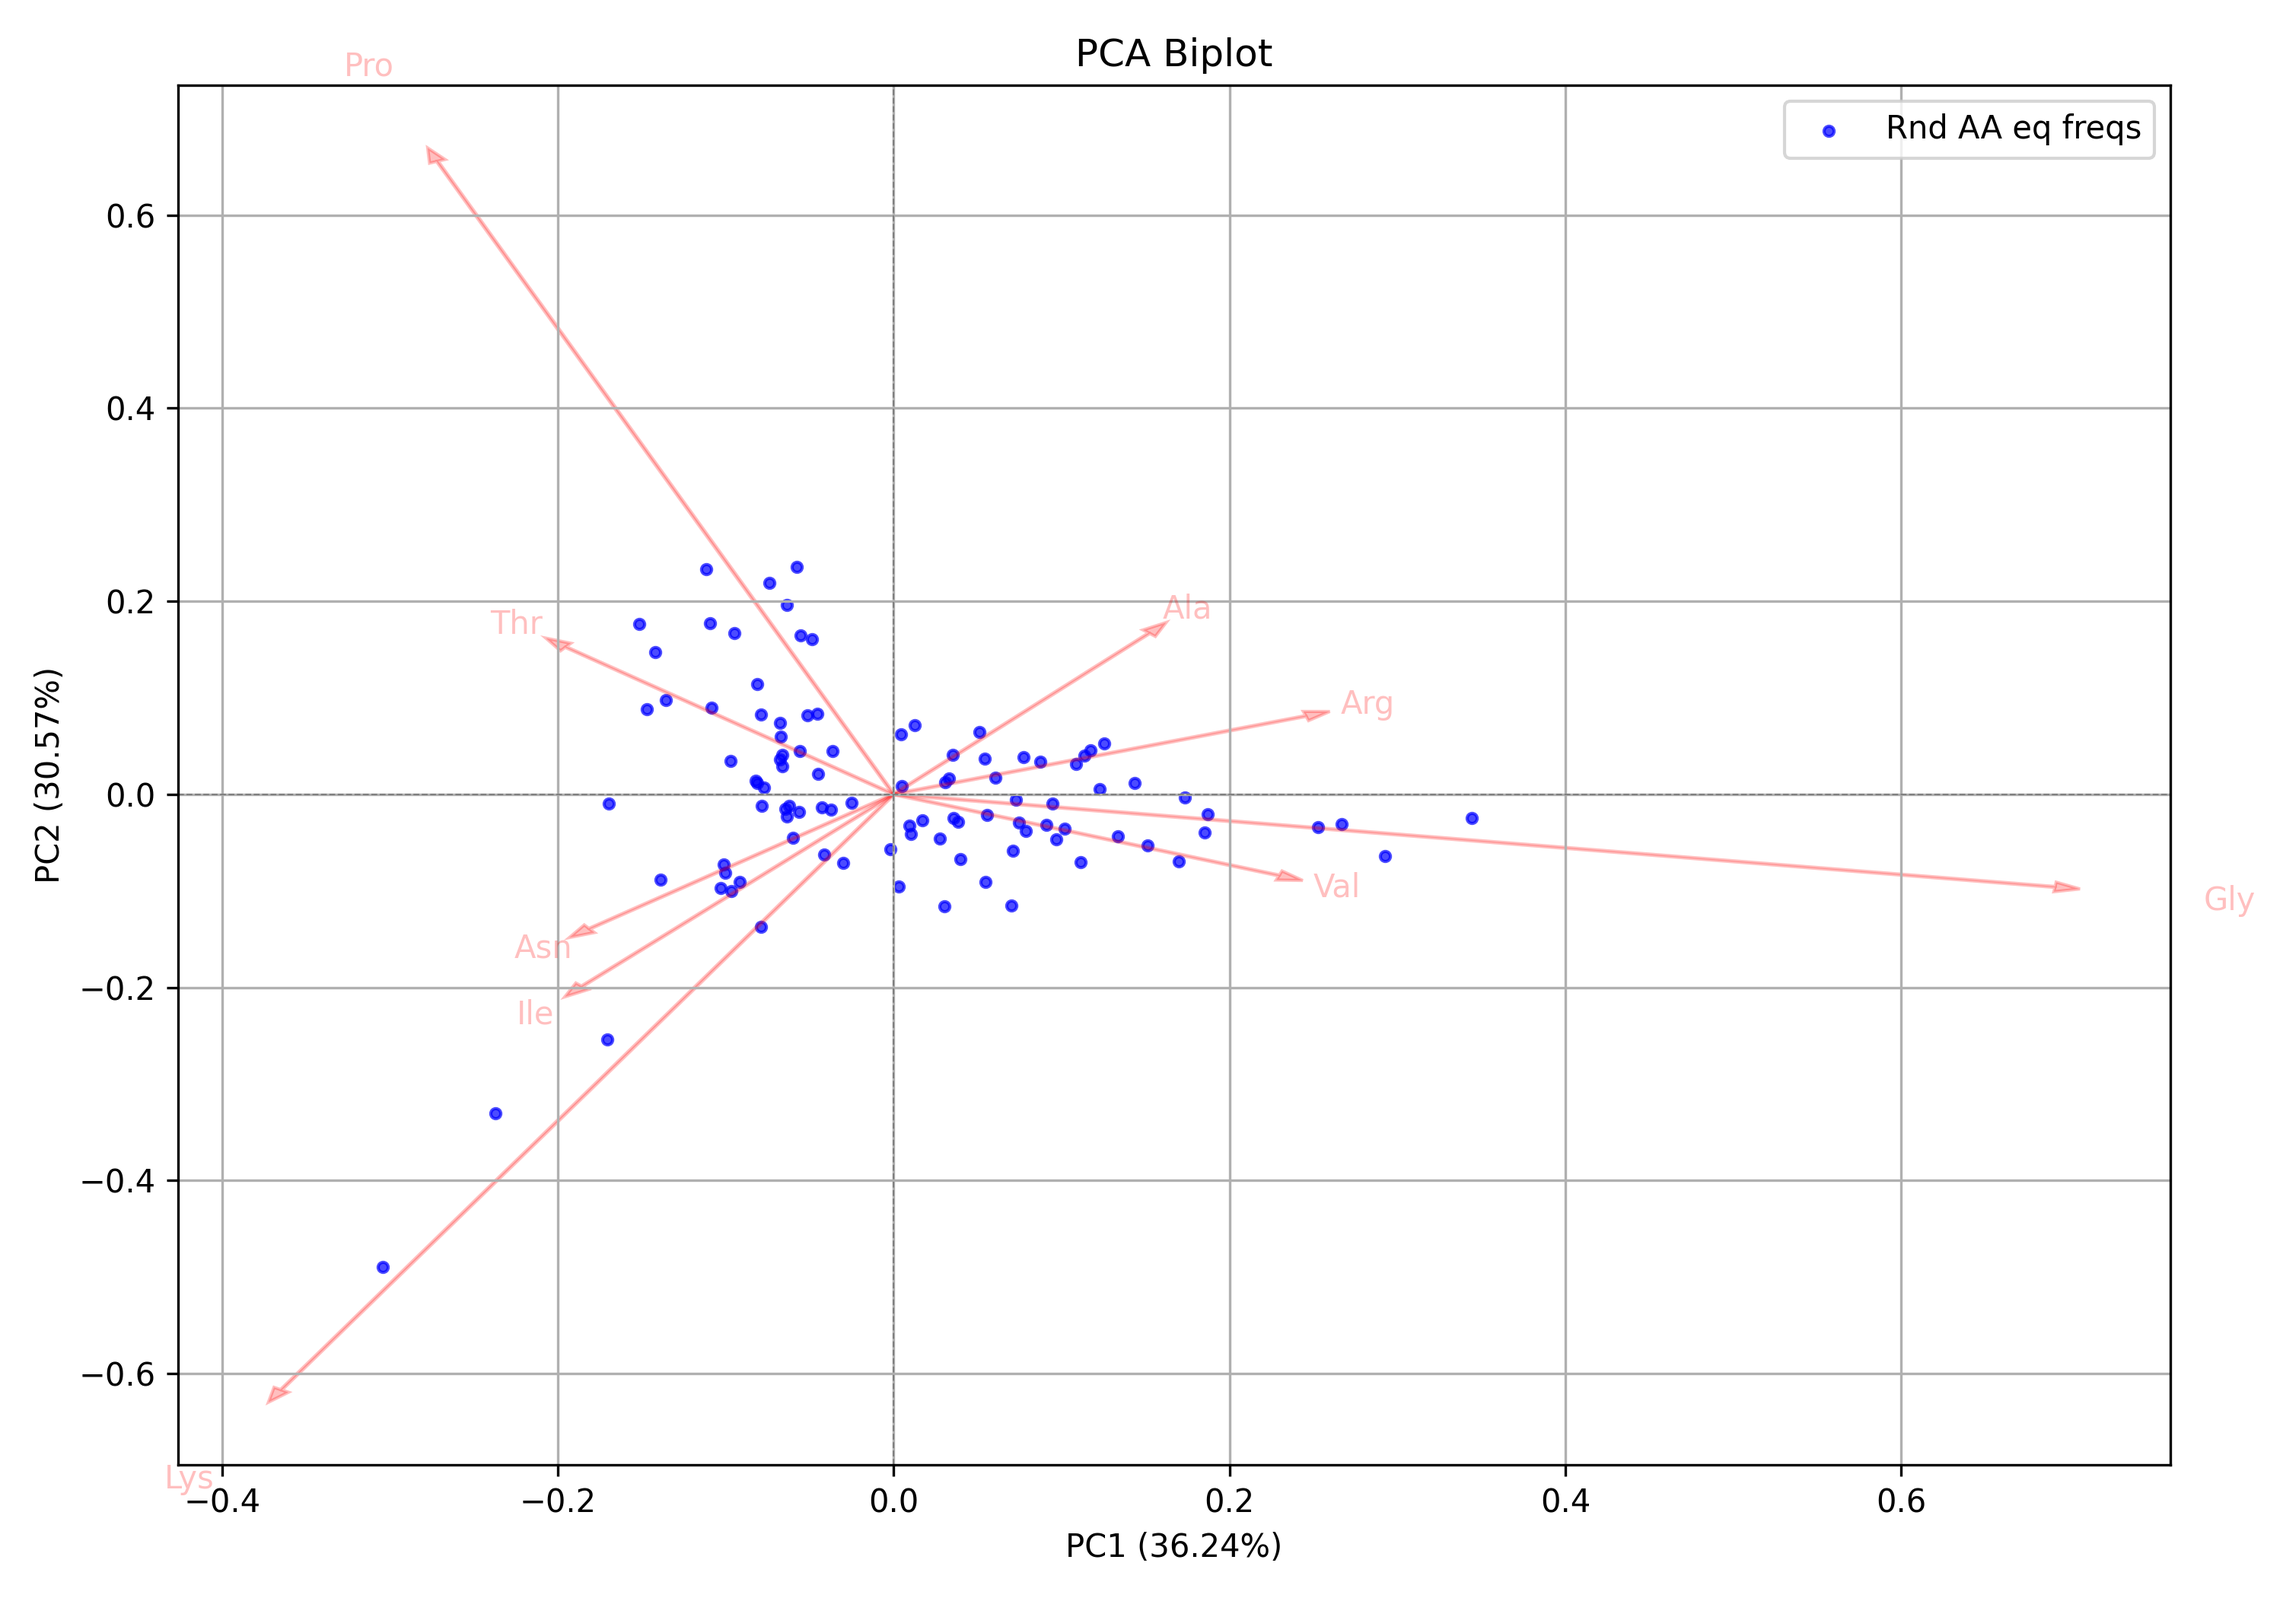
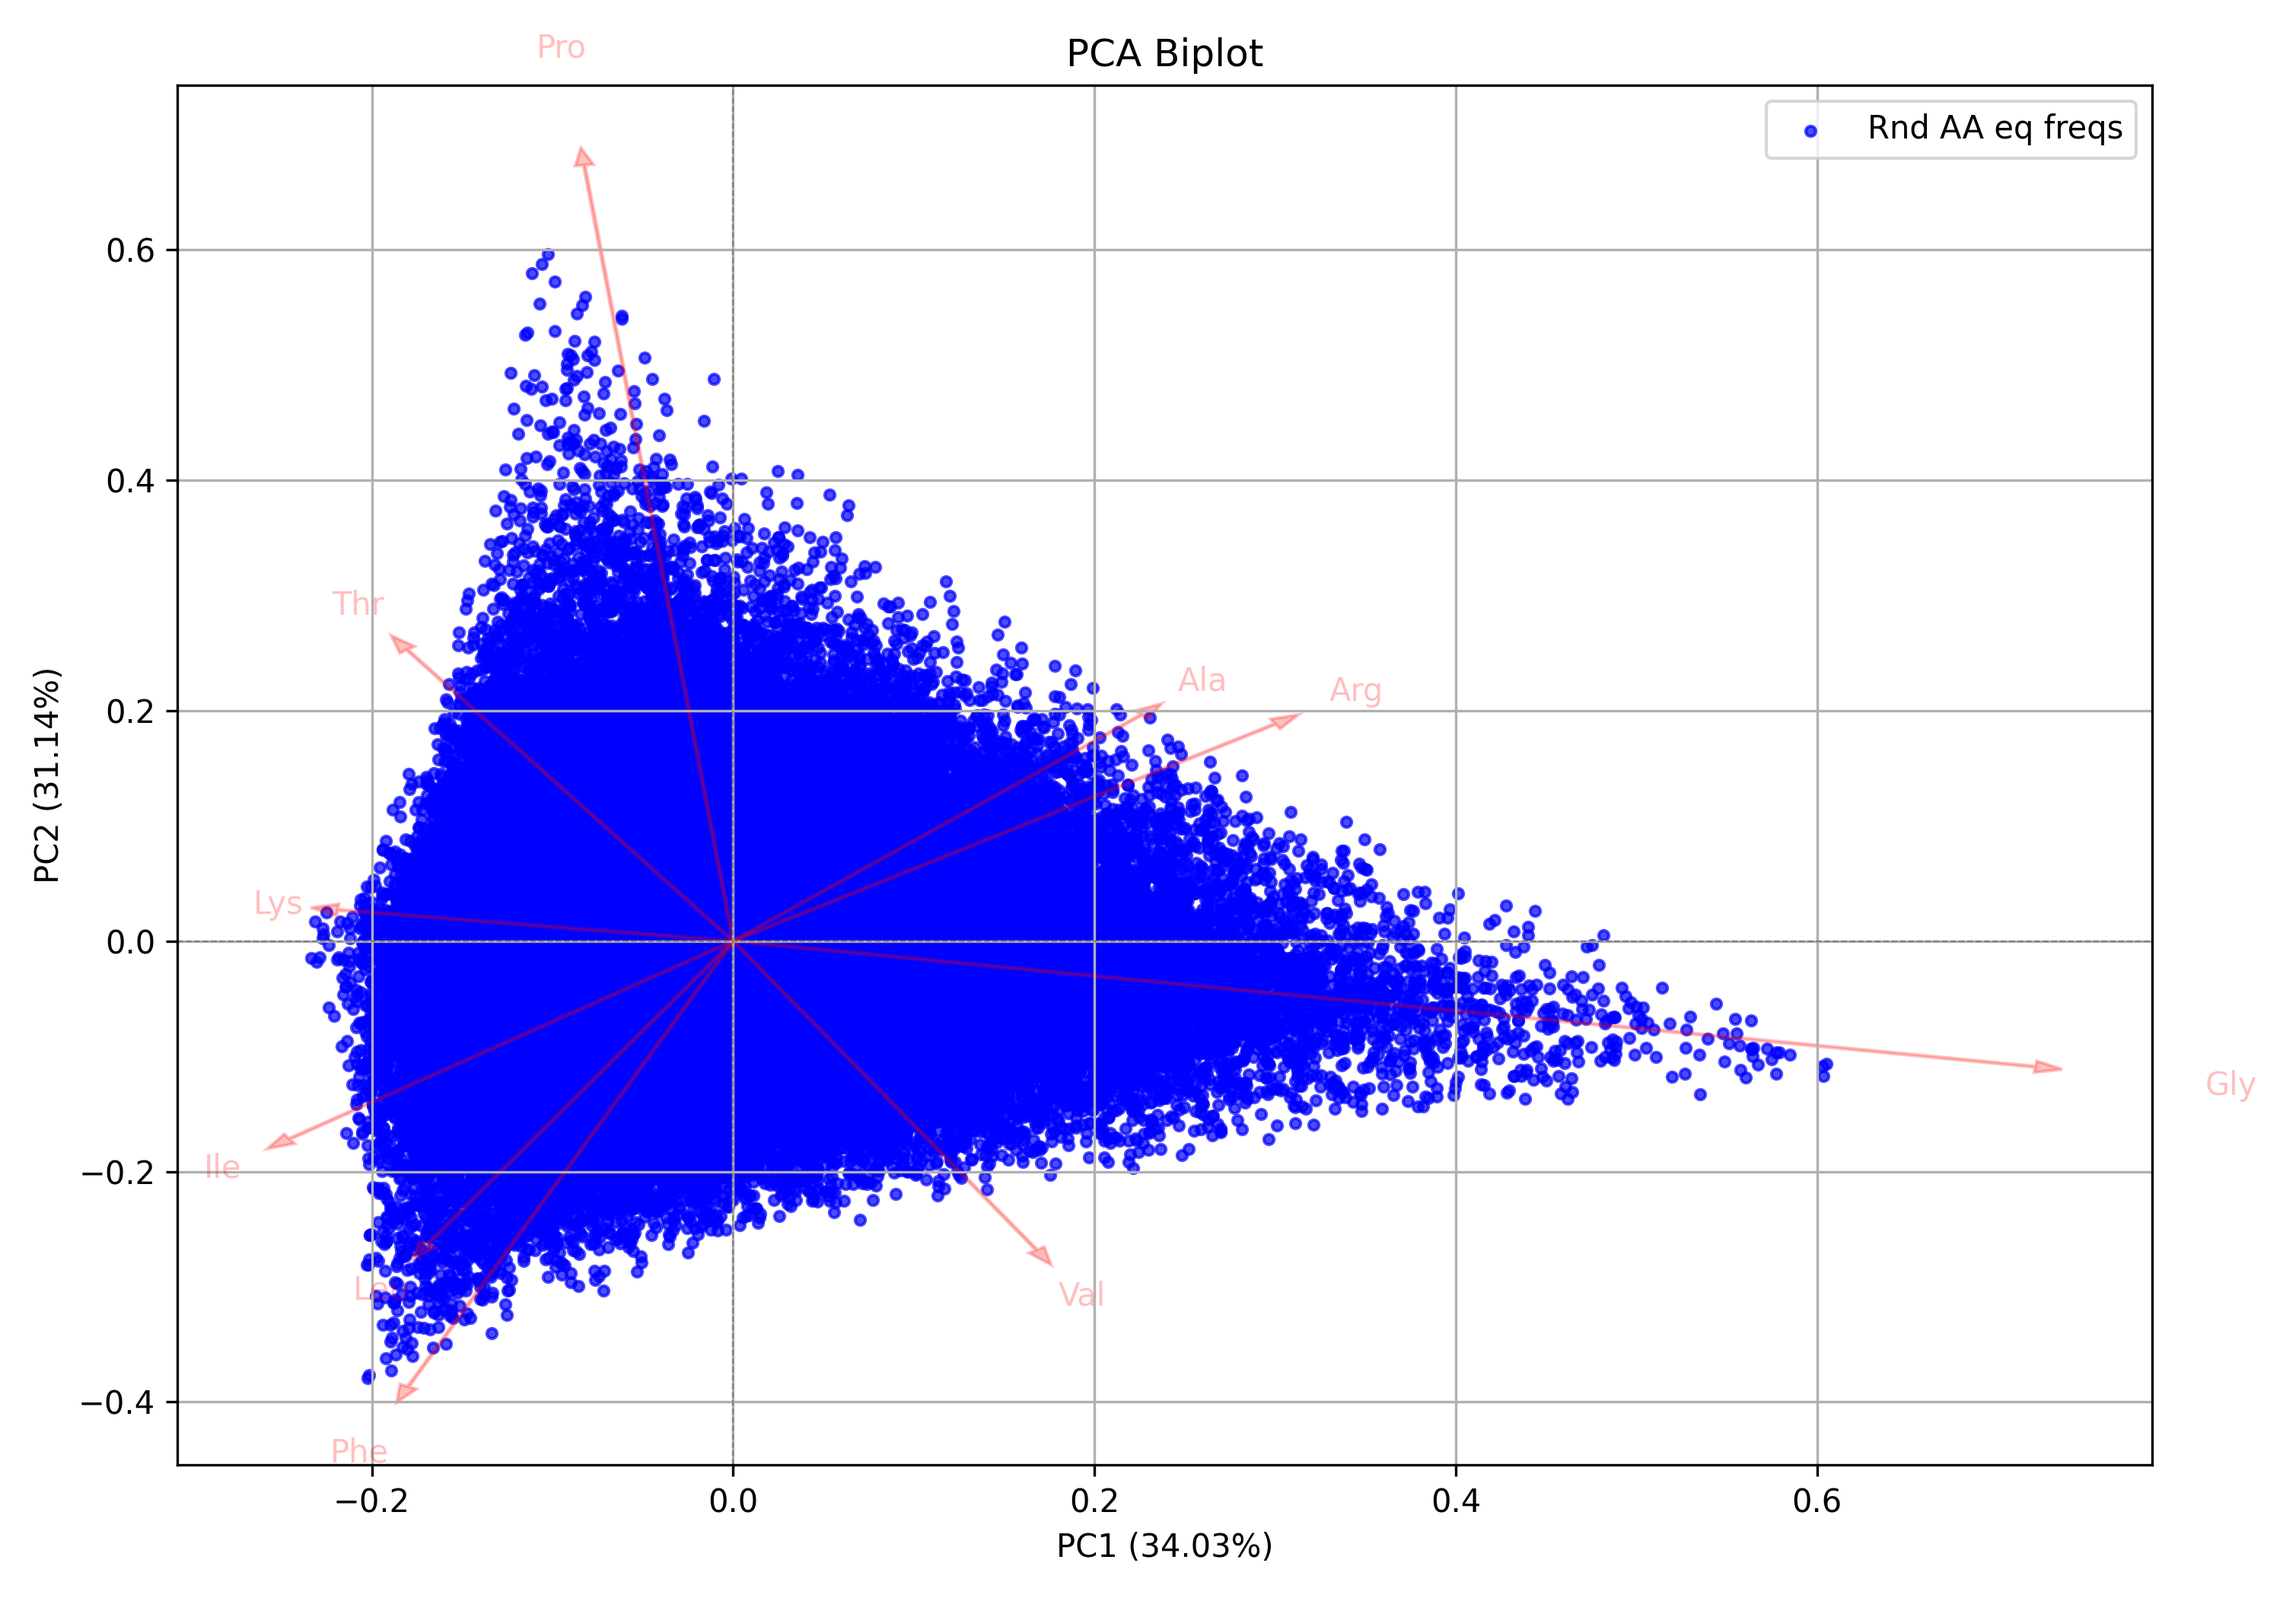
100k rnd spectra done

diff --git a/global_thrend/rnd_aa_eq_freqs.py b/global_thrend/rnd_aa_eq_freqs.py
@@ -10,7 +10,7 @@ from utils import get_random_spectra, get_equilibrium_freqs
 from warnings import filterwarnings
 filterwarnings("ignore",)
 
-NSAMPLES = 1_000_000
+NSAMPLES = 100_000
 THREADS = 64
 
 def process_random_ms(rnd_sp):
